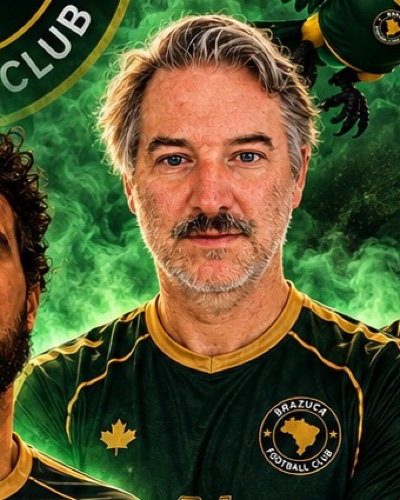
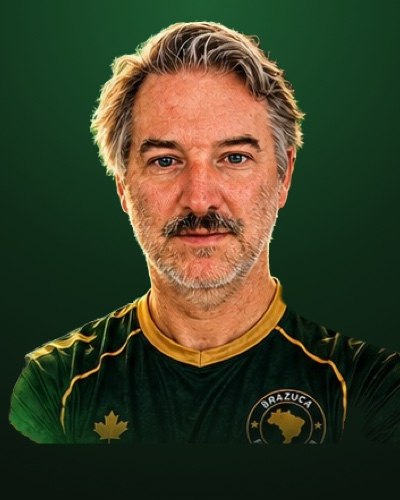
Isolate player portraits and drop Portuguese position labels
The squad photos were rectangular crops from the group posters, so most
showed pieces of the teammates standing alongside (Dani had half of
Eliel and Vini in frame). Each player is now cut out of his poster and
placed on the card's green gradient:

- Vision face detection locates every player; person-instance
  segmentation on a small region around each face separates him from
  the teammates next to him
- where two players' masks overlap, the one standing in front keeps
  the pixels near his own body, and body-pose shoulder joints trim
  collars and sleeves poking out from behind
- the portrait is framed on the face and fades out at mid-chest, which
  also drops the poster lettering and crowns

Also removes the Goleiros/Zagueiros/Laterais/Volantes/Meias/Atacantes
pills from the team page and the unused label field from team.json.

diff --git a/assets/js/site.js b/assets/js/site.js
@@ -377,7 +377,6 @@
           <section class="squad-group" aria-labelledby="group-${esc(group.id)}">
             <header class="squad-group-head">
               <h2 id="group-${esc(group.id)}">${esc(group.title)}</h2>
-              <span class="pill pill--green" lang="pt-BR">${esc(group.label)}</span>
               <span class="squad-count">${group.players.length} ${group.players.length === 1 ? 'player' : 'players'}</span>
             </header>
             <div class="players">${group.players.map(p => playerCard(p, group)).join('')}</div>
